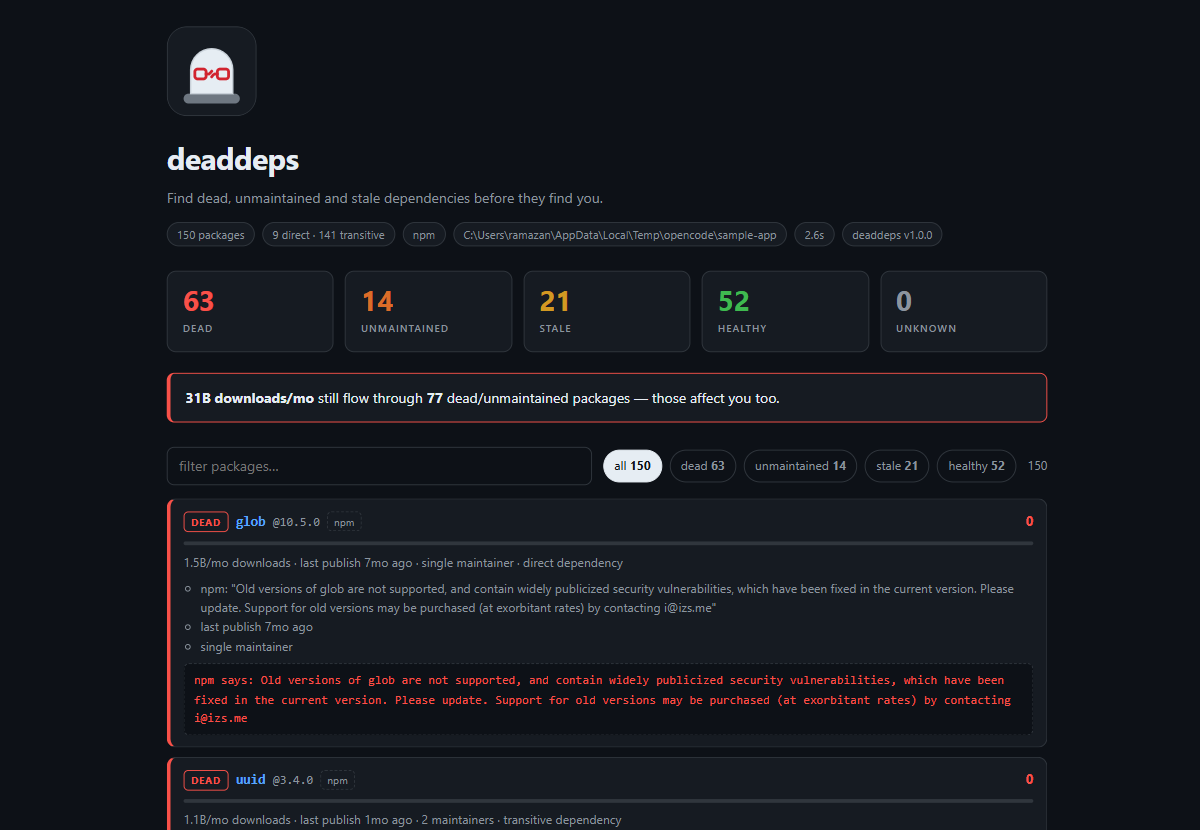
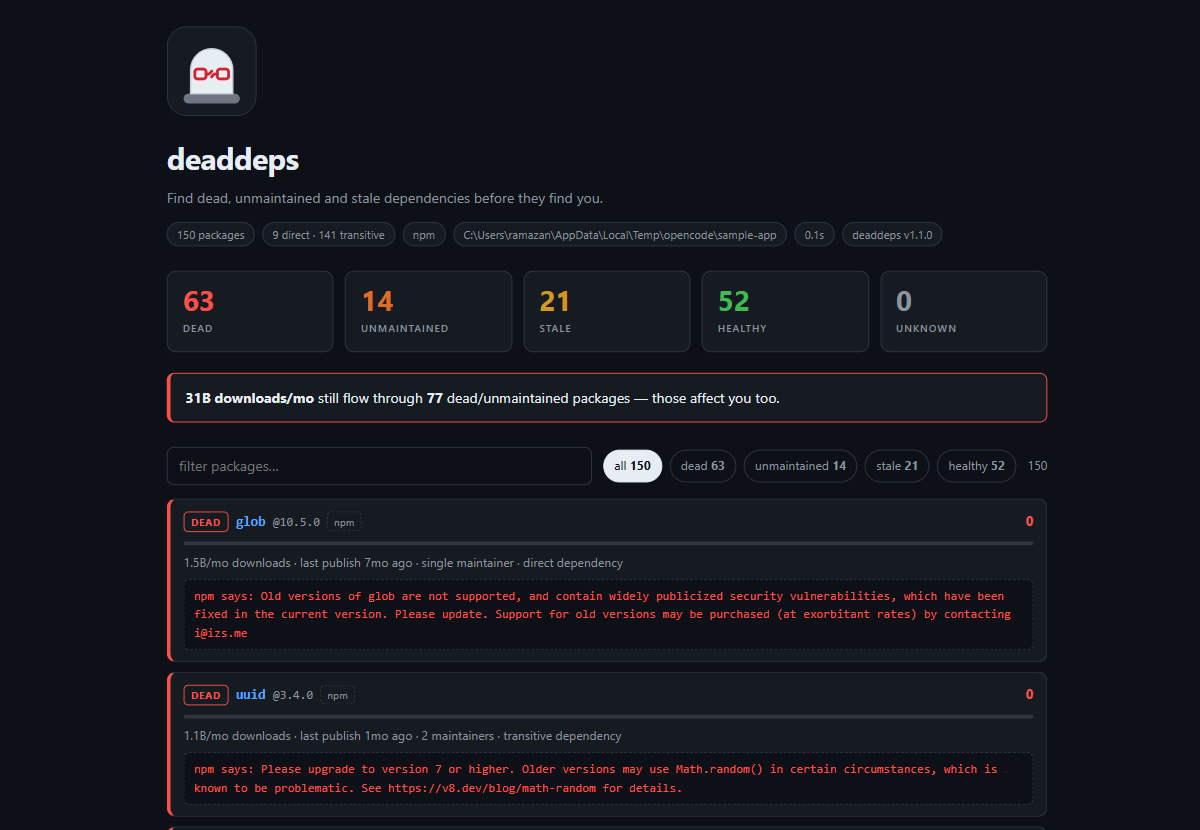
fix(html): facts satiri ile sebep listesinin tekrarini kaldir
Ayni paket kartinda "last publish 7mo ago / single maintainer" hem facts
satirinda hem de sebep listesinde cikiyordu; artik liste yalnizca facts
satirinda gecmeyen sebepleri gosteriyor. README ekran goruntusu guncellendi.

Changed region(s): [[0.1542, 0.8133, 0.8633, 0.994], [0.1542, 0.6928, 0.8325, 0.7831], [0.1233, 0.994, 0.1542, 1.0]]

diff --git a/src/html.js b/src/html.js
@@ -62,10 +62,14 @@ function packageCard(row) {
       ? `<span class="score na" title="no score">—</span>`
       : `<span class="score sc-${scoreClass(score)}" title="score ${score}/100">${score}</span>`;
 
+  const factsText = facts(row).join('  ·  ');
   const reasons = (row.reasons ?? [])
-    // npm mesaji asagidaki kutuda zaten tam haliyle duruyor; listede tekrarlama.
+    // npm mesaji asagidaki kutuda zaten tam haliyle duruyor...
     .filter((r) => !(row.deprecated && r.startsWith('npm: ')))
-    .map((r) => `<li>${esc(r)}</li>`).join('');
+    // ...geri kalan da facts satirinda geciyorsa listeyi uzatmasin.
+    .filter((r) => !factsText.toLowerCase().includes(String(r).toLowerCase()))
+    .map((r) => `<li>${esc(r)}</li>`)
+    .join('');
   const deprecation = row.deprecated
     ? `<p class="depr">npm says: ${esc(String(row.deprecationReason ?? 'deprecated'))}</p>`
     : '';
@@ -78,7 +82,7 @@ function packageCard(row) {
           ${scoreHtml}
         </div>
         <div class="meter"><i class="sc-${scoreClass(score)}" style="width:${score ?? 0}%"></i></div>
-        <p class="facts">${esc(facts(row).join('  ·  '))}</p>
+        <p class="facts">${esc(factsText)}</p>
         ${reasons ? `<ul class="why">${reasons}</ul>` : ''}
         ${deprecation}
       </li>`;

diff --git a/test/html.test.js b/test/html.test.js
@@ -83,6 +83,14 @@ test('html: harici kaynak yok — dosya kendine yetiyor', () => {
   assert.ok(html.includes('xmlns="http://www.w3.org/2000/svg"'));
 });
 
+test('html: sebepler facts satiriyla ayni ise tekrar etmez', () => {
+  const html = renderHtml({ rows: [row('dep-a', 'dead')], meta });
+  // analyze() sebep olarak da "last publish …" ve "single maintainer" uretir;
+  // ikisi de facts satirinda gectigi icin listeye tekrar almamaliyiz.
+  assert.equal((html.match(/last publish/g) || []).length, 1, 'last publish iki kez yazilmis');
+  assert.equal((html.match(/single maintainer/g) || []).length, 1, 'single maintainer iki kez yazilmis');
+});
+
 test('html: filtreler data-status ile eslesir, JS ozellikleri ekler', () => {
   const rows = [row('dep-a', 'dead'), row('fresh', 'healthy')];
   const html = renderHtml({ rows, meta });
